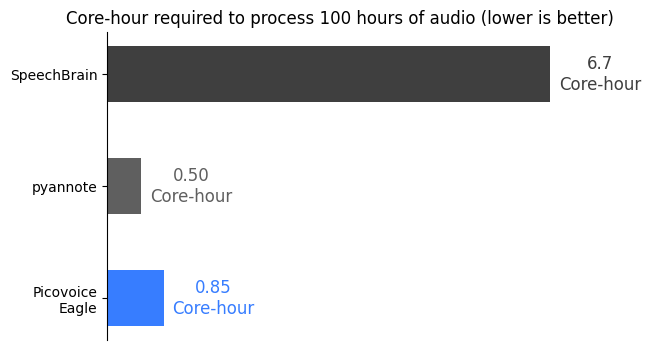
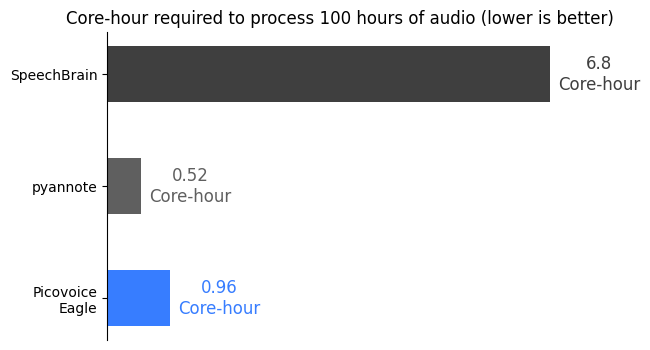
wip

diff --git a/engine.py b/engine.py
@@ -1,3 +1,4 @@
+import os
 import time
 from enum import Enum
 from typing import (
@@ -7,6 +8,7 @@ from typing import (
 )
 
 import numpy as np
+import psutil
 import torch
 from pyannote.audio.pipelines.speaker_verification import (
     PretrainedSpeakerEmbedding
@@ -25,6 +27,10 @@ class Engine(object):
         raise NotImplementedError
 
     def infer(self, pcm: Sequence[int], profiles: Sequence[Sequence[float]]) -> Sequence[float]:
+        raise NotImplementedError
+
+    @property
+    def size_bytes(self) -> int:
         raise NotImplementedError
 
     def __str__(self) -> str:
@@ -53,10 +59,13 @@ class EagleEngine(Engine):
             device=device,
             min_enrollment_chunks=3,
             voice_threshold=voice_threshold)
+        pre_bytes = psutil.Process(os.getpid()).memory_info().rss
         self._eagle = pveagle.create_recognizer(
             access_key=access_key,
             device=device,
             voice_threshold=voice_threshold)
+        post_bytes = psutil.Process(os.getpid()).memory_info().rss
+        self._size_bytes = post_bytes - pre_bytes
 
     def enroll(self, enrollments: Sequence[Sequence[int]]) -> Any:
         start_time = time.perf_counter()
@@ -87,15 +96,23 @@ class EagleEngine(Engine):
         end_time = time.perf_counter()
         return res, end_time - start_time
 
+    @property
+    def size_bytes(self) -> int:
+        return self._size_bytes
+
     def __str__(self) -> str:
         return f"🤖[{Engines.PICOVOICE_EAGLE.value}]"
 
 
 class PyannoteEngine(Engine):
     def __init__(self, auth_token: str) -> None:
+        pre_bytes = psutil.Process(os.getpid()).memory_info().rss
         self._model = PretrainedSpeakerEmbedding(
             embedding="pyannote/embedding",
+            device="cpu",
             token=auth_token)
+        post_bytes = psutil.Process(os.getpid()).memory_info().rss
+        self._size_bytes = post_bytes - pre_bytes
 
     def enroll(self, enrollments: Sequence[Sequence[int]]) -> Sequence[float]:
         start_time = time.perf_counter()
@@ -129,15 +146,22 @@ class PyannoteEngine(Engine):
         end_time = time.perf_counter()
         return scores.tolist(), end_time - start_time
 
+    @property
+    def size_bytes(self) -> int:
+        return self._size_bytes
+
     def __str__(self) -> str:
         return f"🤖[{Engines.PYANNOTE.value}]"
 
 
 class SpeechBrainEngine(Engine):
     def __init__(self) -> None:
+        pre_bytes = psutil.Process(os.getpid()).memory_info().rss
         self._model = EncoderClassifier.from_hparams(
             source="speechbrain/spkrec-ecapa-voxceleb",
             run_opts={"device": "cpu"})
+        post_bytes = psutil.Process(os.getpid()).memory_info().rss
+        self._size_bytes = post_bytes - pre_bytes
 
     def enroll(self, enrollments: Sequence[Sequence[int]]) -> Sequence[float]:
         start_time = time.perf_counter()
@@ -177,6 +201,10 @@ class SpeechBrainEngine(Engine):
 
         end_time = time.perf_counter()
         return scores.tolist(), end_time - start_time
+
+    @property
+    def size_bytes(self) -> int:
+        return self._size_bytes
 
     def __str__(self) -> str:
         return f"🤖[{Engines.SPEECHBRAIN.value}]"

diff --git a/plot_results.py b/plot_results.py
@@ -31,14 +31,12 @@ BLUE = rgb_from_hex("#377DFF")
 ENGINE_COLORS = {
     Engines.PICOVOICE_EAGLE: BLUE,
     Engines.PYANNOTE: GREY2,
-    # Engines.WESPEAKER: GREY3,
     Engines.SPEECHBRAIN: GREY1,
 }
 
 ENGINE_PRINT_NAMES = {
     Engines.PICOVOICE_EAGLE: "Picovoice\nEagle",
     Engines.PYANNOTE: "pyannote",
-    # Engines.WESPEAKER: "WeSpeaker",
     Engines.SPEECHBRAIN: "SpeechBrain",
 }
 
@@ -194,6 +192,54 @@ def _plot_cpu(
     plt.close()
 
 
+def _plot_mem(
+        results: dict,
+        show: bool) -> None:
+    fig, ax = plt.subplots(figsize=(6, 4))
+    for engine in Engines:
+        size_bytes = 0.0
+        for keyword in Keywords:
+            size_bytes += results[keyword][engine]["size_bytes"]
+        size_bytes /= len(Keywords)
+
+        size_bytes /= 1024 * 1024
+
+        ax.barh(
+            ENGINE_PRINT_NAMES[engine],
+            size_bytes,
+            height=0.5,
+            color=ENGINE_COLORS[engine],
+            edgecolor="none",
+            label=ENGINE_PRINT_NAMES[engine],
+        )
+        ax.text(
+            size_bytes + 10,
+            ENGINE_PRINT_NAMES[engine],
+            f"{size_bytes:.2f}MB",
+            ha="center",
+            va="center",
+            fontsize=12,
+            color=ENGINE_COLORS[engine],
+        )
+
+    ax.spines["top"].set_visible(False)
+    ax.spines["bottom"].set_visible(False)
+    ax.spines["right"].set_visible(False)
+    ax.set_xticks([])
+    plt.title("MB required to initialize the model", fontsize=12)
+    plot_path = os.path.join(
+        RESULTS_FOLDER,
+        "plots",
+        "mem.png")
+    plt.savefig(plot_path, bbox_inches="tight")
+    print(f"Saved plot to {plot_path}")
+
+    if show:
+        plt.show()
+
+    plt.close()
+
+
 def main() -> None:
     parser = argparse.ArgumentParser()
     parser.add_argument("--show", action="store_true")
@@ -216,6 +262,7 @@ def main() -> None:
             _plot_metric(results, keyword, metric, args.show)
         _plot_average_metric(results, metric, args.show)
     _plot_cpu(results, args.show)
+    _plot_mem(results, args.show)
 
 
 if __name__ == "__main__":

diff --git a/benchmark.py b/benchmark.py
@@ -82,7 +82,7 @@ def main() -> None:
             total_audio_time += audio_time
 
     eer = metric.compute(positives, negatives)
-    rtf = total_process_time/total_audio_time
+    rtf = total_process_time / total_audio_time
 
     print(f"{metric} {eer * 100.:.2f}%")
     print(f"🚀 RTF {rtf:.02f}")
@@ -90,6 +90,7 @@ def main() -> None:
     results_path = os.path.join(RESULTS_FOLDER, "data", args.keyword, f"{args.engine}.json")
     results = {
         args.metric: eer,
+        "size_bytes": engine.size_bytes,
         "process_time": total_process_time,
         "audio_time": total_audio_time,
         "enroll_process_time": total_enroll_process_time,
@@ -97,6 +98,7 @@ def main() -> None:
     }
     with open(results_path, "w") as f:
         json.dump(results, f, indent=2)
+
 
 if __name__ == "__main__":
     main()
